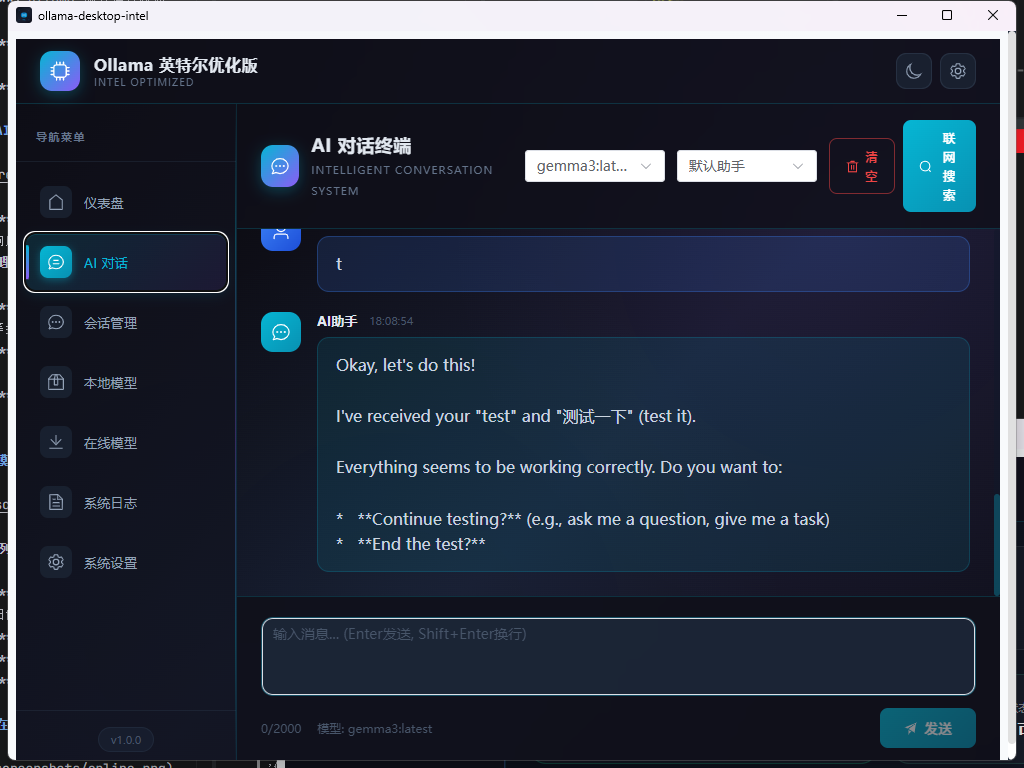
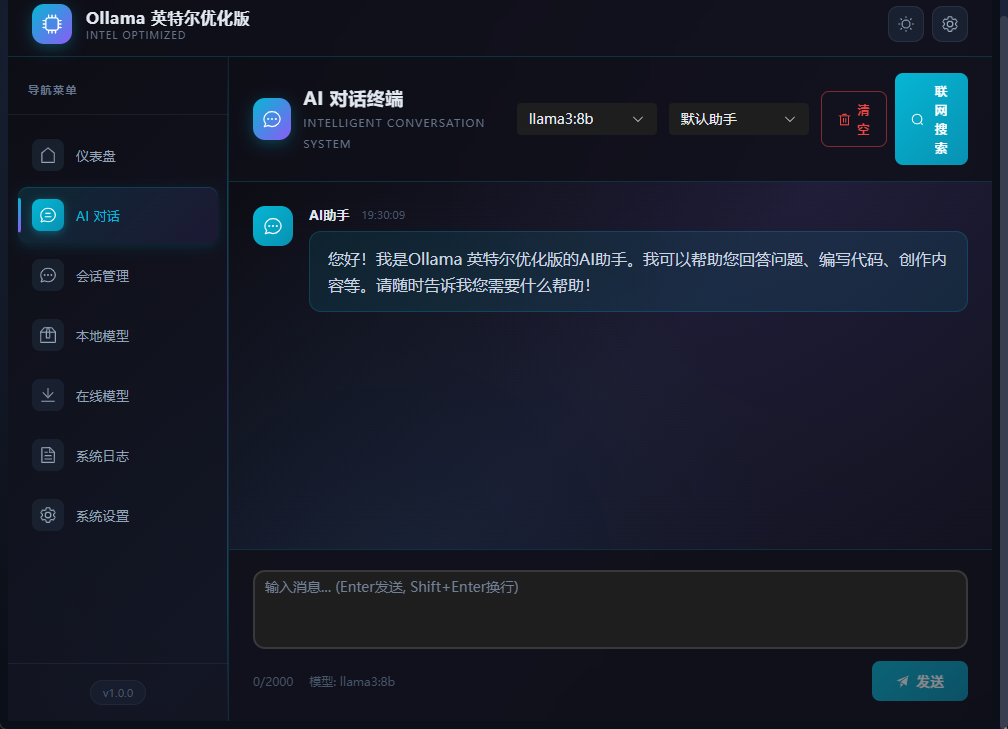
优化窗口布局，消除缝隙

diff --git a/frontend/src/App.vue b/frontend/src/App.vue
@@ -99,24 +99,14 @@ onMounted(() => {
 <style lang="scss">
 .tech-app-wrapper {
   height: 100vh;
+  width: 100vw;
   display: flex;
   flex-direction: column;
-  background: linear-gradient(135deg, #0a0a0f 0%, #1a1a2e 50%, #0f0f1a 100%);
+  background: #0a0a0f;
   position: relative;
   overflow: hidden;
-}
-
-.tech-app-wrapper::before {
-  content: '';
-  position: absolute;
-  top: 0;
-  left: 0;
-  right: 0;
-  bottom: 0;
-  background: 
-    radial-gradient(circle at 20% 80%, rgba(6, 182, 212, 0.05) 0%, transparent 50%),
-    radial-gradient(circle at 80% 20%, rgba(139, 92, 246, 0.05) 0%, transparent 50%);
-  pointer-events: none;
+  margin: 0;
+  padding: 0;
 }
 
 .tech-header {

diff --git a/frontend/index.html b/frontend/index.html
@@ -4,6 +4,22 @@
     <meta charset="UTF-8"/>
     <meta content="width=device-width, initial-scale=1.0" name="viewport"/>
     <title>ollama-desktop-intel</title>
+    <style>
+        * {
+            margin: 0;
+            padding: 0;
+            box-sizing: border-box;
+        }
+        html, body {
+            width: 100%;
+            height: 100%;
+            overflow: hidden;
+        }
+        #app {
+            width: 100%;
+            height: 100%;
+        }
+    </style>
 </head>
 <body>
 <div id="app"></div>
